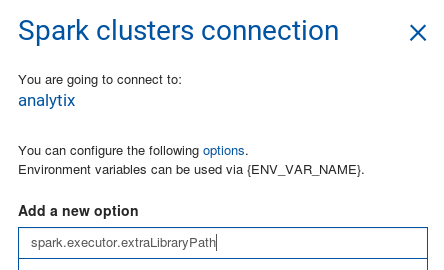
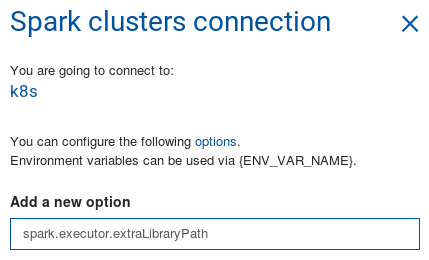
Use Cloud Containers cluster rather than Analytix

diff --git a/demos/README.md b/demos/README.md
@@ -11,33 +11,39 @@ The following demos are available in SWAN:
 
 **Disclaimer**: This process will be much simpler once we integrate PyRDF as part of the LCG Releases. Our goal is to add the next [0.1.0 release version](https://github.com/JavierCVilla/PyRDF/projects/2).
 
-#### 1. Open a terminal in SWAN:
+#### 1. Enter to [SWAN](swan.cern.ch)
+
+#### 2. Select the *Cloud Containers* Spark cluster in your configuration and the *Bleeding Edge* Software stack.
+
+<p align="center"><img src ="images/swan-tutorial-0.png" /></p>
+
+#### 3. Open a terminal in SWAN:
 
   ![](images/swan-tutorial-1.png)
 
-#### 2. Go to your project folder:
+#### 4. Go to your project folder:
 
   ```
   cd SWAN_projects/<Project_PATH>
   ```
 
-#### 3. Clone the PyRDF repository from Github:
+#### 5. Clone the PyRDF repository from Github:
 
   ```
   git clone https://github.com/JavierCVilla/PyRDF
   ```
 
-#### 4. Since PyRDF is not distributed yet through CVMFS, we need to send it to our remote workers. The next command creates a zip file with the content of the module:
+#### 6. Since PyRDF is not distributed yet through CVMFS, we need to send it to our remote workers. The next command creates a zip file with the content of the module:
 
   ```
   python PyRDF/demos/swan-setup.py
   ```
 
-#### 5. Go back to your notebook and open the menu to connect to a Spark cluster:
+#### 7. Go back to your notebook and open the menu to connect to a Spark cluster:
 
  ![](images/swan-tutorial-2.png)
 
-#### 6. Before starting the connection, let's add some configuration to the SparkContext:
+#### 8. Before starting the connection, let's add some configuration to the SparkContext:
 
   ```
   {
@@ -53,26 +59,26 @@ The following demos are available in SWAN:
   This can be added using the SWAN interface as follows:
 
   - Enter the name of the parameter on the _Add new option_ field:
-  
+
       <p align="center"><img src ="images/swan-tutorial-3.png" /></p>
 
   - And add the value:
-  
+
       <p align="center"><img src ="images/swan-tutorial-4.png" /></p>
 
   - Follow the same steps for the second parameter:
-      
+
       <p align="center"><img src ="images/swan-tutorial-5.png" /></p>
 
       <p align="center"><img src ="images/swan-tutorial-6.png" /></p>
 
   - Once both parameters have been configured, the menu should look like this:
-      
+
       <p align="center"><img src ="images/swan-tutorial-7.png" /></p>
 
-#### 7. Now we are ready to connect to the cluster.
+#### 9. Now we are ready to connect to the cluster.
 
-#### 8. Select the Spark backend in PyRDF, by default PyRDF will use the `Local` backend which is equivalent to RDataFrame running in a local machine.
+#### 10. Select the Spark backend in PyRDF, by default PyRDF will use the `Local` backend which is equivalent to RDataFrame running in a local machine.
 
   ```
   PyRDF.use("spark", {'npartitions': '32'})
@@ -80,4 +86,4 @@ The following demos are available in SWAN:
 
   The second parameter of `PyRDF.use` allows us to add some configuration to the Spark context such as the number of partitions, modify this number to suit your needs.
 
-####  9. Have a look at the demos to see examples of use.
+#### 11. Have a look at the [demos](#pyrdf-demos) to see examples of use.
